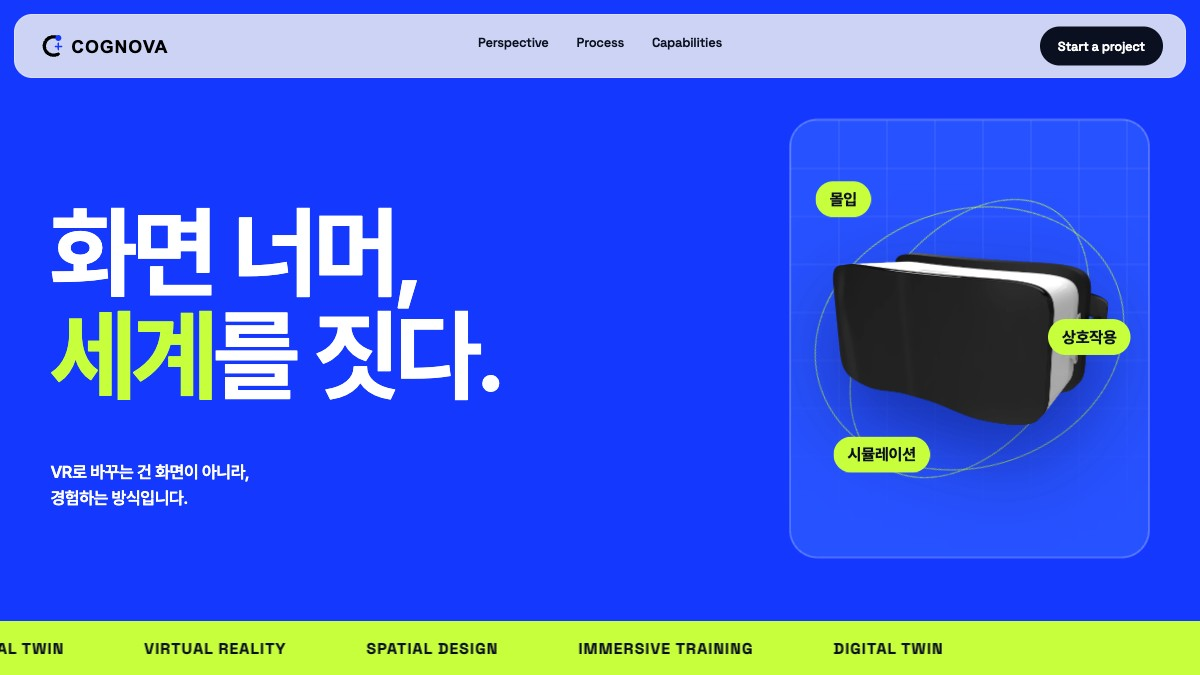
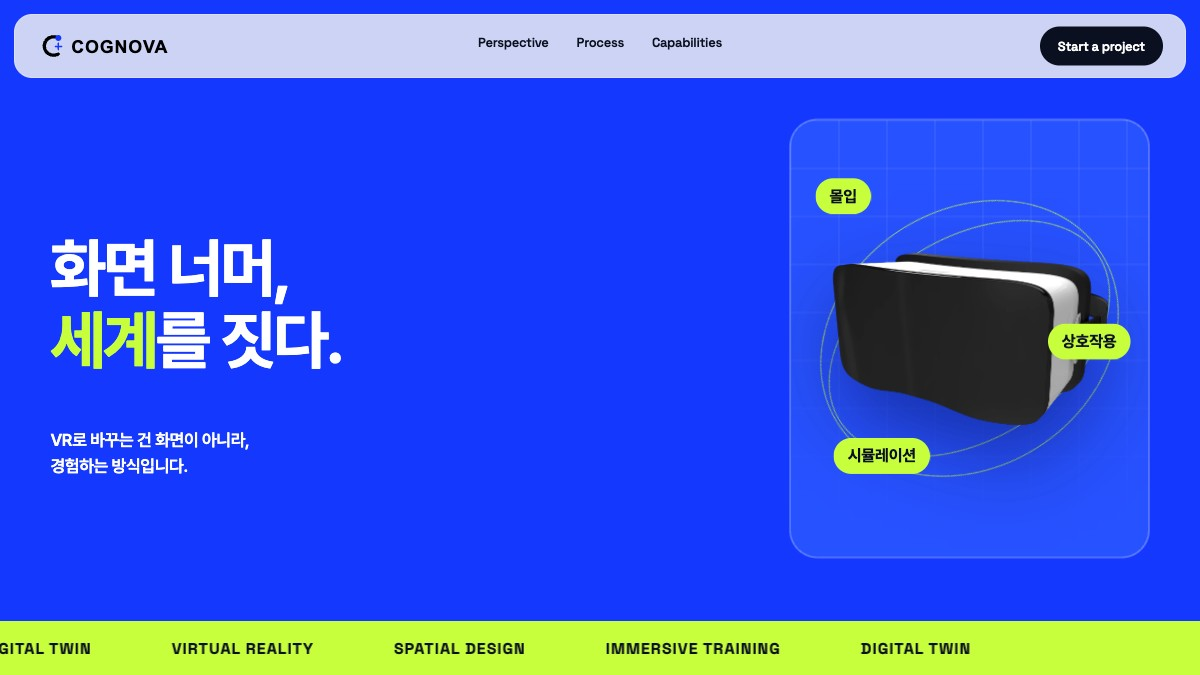
코그노바: 히어로 타이틀 64px, 섹션 타이틀 크기·굵기 통일(48/38px·700), 썸네일 갱신

diff --git a/ai-landingpage/IT·마케팅/22.COGNOVA/styles.css b/ai-landingpage/IT·마케팅/22.COGNOVA/styles.css
@@ -44,4 +44,5 @@
 @media(prefers-reduced-motion:reduce){html{scroll-behavior:auto}*,*::before,*::after{animation-duration:.01ms!important;animation-iteration-count:1!important;transition-duration:.01ms!important}}
 body.menu-open .back-to-top{opacity:0;pointer-events:none}
 
-/* 국문 타이틀 */.hero-title{font-family:Pretendard,sans-serif;letter-spacing:-.045em;line-height:1.04}.section-head h2,.principle h3,.node{font-family:Pretendard,sans-serif}.node{letter-spacing:-.01em}.principle h3{letter-spacing:-.03em}
+/* 국문 타이틀 */.hero-title{font-family:Pretendard,sans-serif;font-size:64px;letter-spacing:-.04em;line-height:1.12}.section-head h2,.principle h3,.node{font-family:Pretendard,sans-serif}.node{letter-spacing:-.01em}.principle h3{letter-spacing:-.03em}
+/* 섹션 타이틀 통일 */.section-intro h2,.method-title h2,.section-head h2,.contact h2{font-family:Pretendard,sans-serif;font-size:48px;font-weight:700;line-height:1.14;letter-spacing:-.03em}@media(max-width:720px){.section-intro h2,.method-title h2,.section-head h2,.contact h2{font-size:38px}}

diff --git a/ai-landingpage/IT·마케팅/22.COGNOVA/index.html b/ai-landingpage/IT·마케팅/22.COGNOVA/index.html
@@ -6,7 +6,7 @@
   <meta name="description" content="코그노바는 비즈니스의 맥락을 읽고 교육·커머스·산업 현장을 몰입형 가상 경험으로 설계하는 VR·XR 파트너입니다.">
   <link rel="icon" href="img/cognova-mark.svg" type="image/svg+xml"><link rel="preconnect" href="https://fonts.googleapis.com"><link rel="preconnect" href="https://fonts.gstatic.com" crossorigin>
   <link href="https://fonts.googleapis.com/css2?family=Space+Grotesk:wght@400;500;600;700&display=swap" rel="stylesheet"><link rel="stylesheet" crossorigin href="https://cdn.jsdelivr.net/gh/orioncactus/pretendard@v1.3.9/dist/web/static/pretendard.css">
-  <link rel="stylesheet" href="styles.css?v=20260929-11">
+  <link rel="stylesheet" href="styles.css?v=20260929-12">
 </head>
 <body>
 <!-- variant: typo=loud · image=medium · color=dominant · radius=round · border=hairline · fw=700/400 · spacing=space-10
